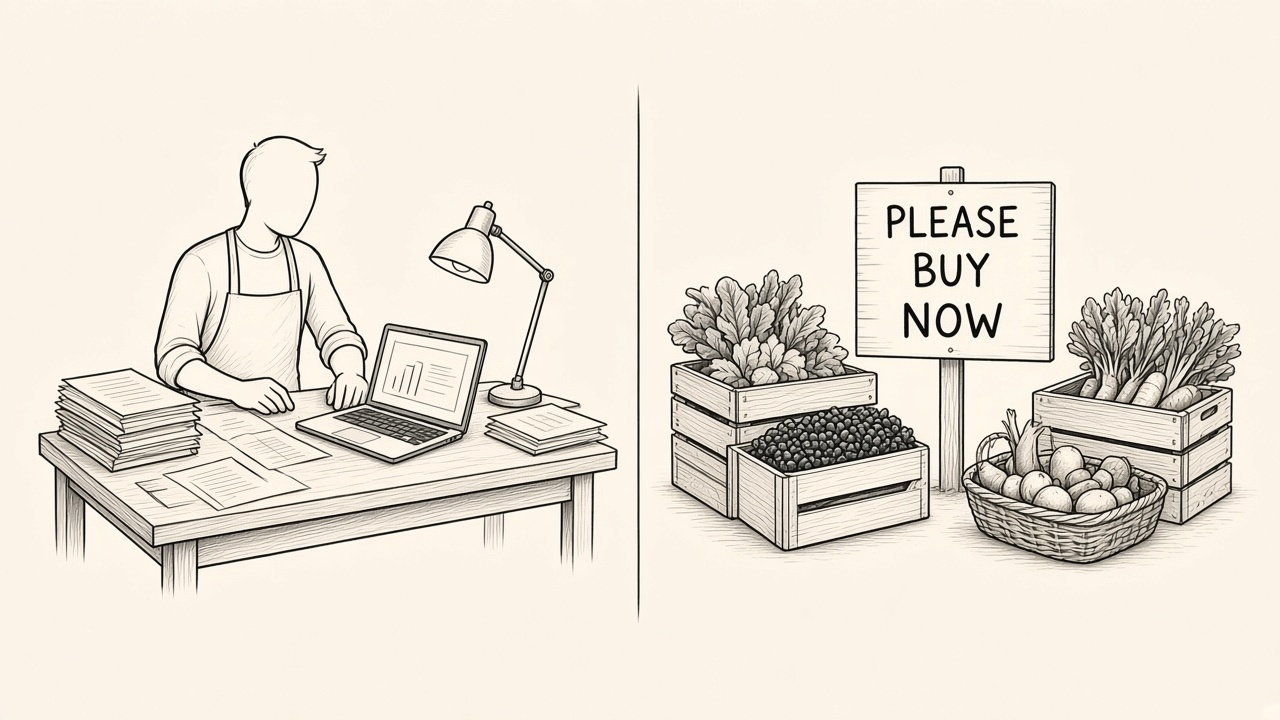
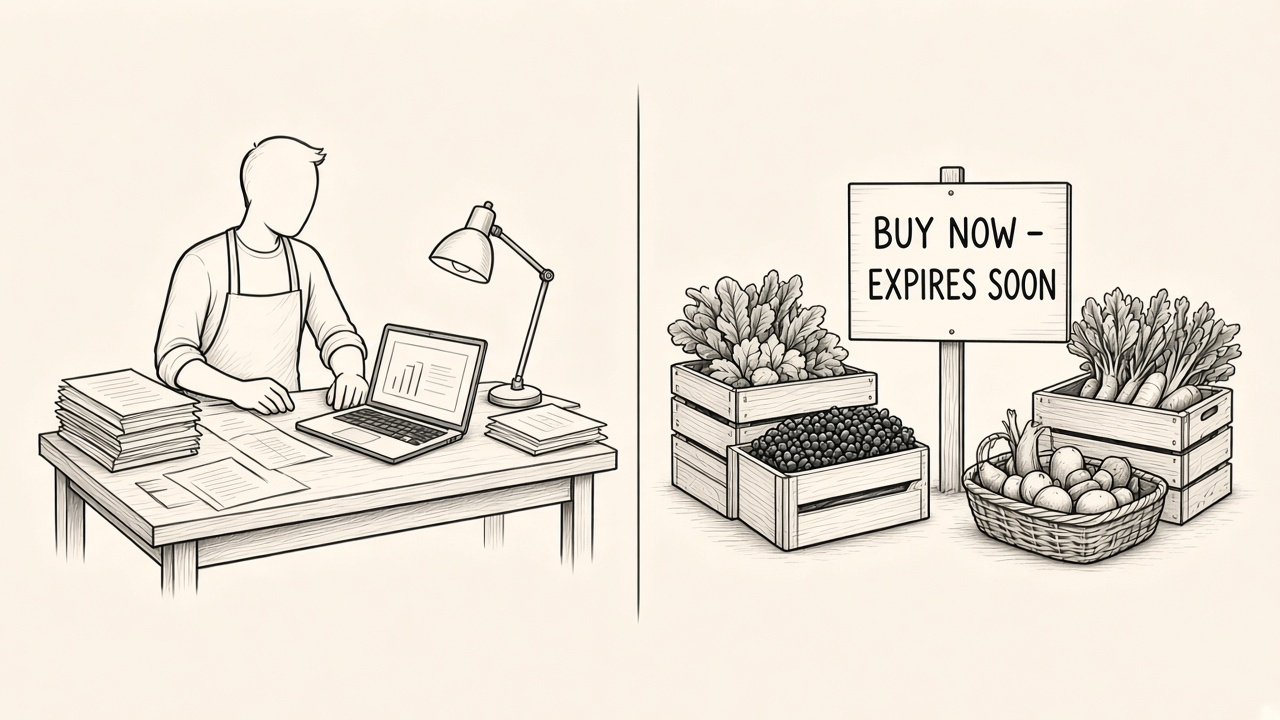
Change the Growth Cap sign to Buy now - expires soon.

diff --git a/index.html b/index.html
@@ -102,7 +102,7 @@
           <p><span class="point">The logic of seasonality and volume.</span> Harvests and raw material supply arrive in bursts dictated by weather and season, whereas the market expects a steady supply. Producers are both able and willing to grow and produce more, but they find too few buyers ready to take on large volumes at the exact moment of harvest. Without the capacity to easily handle, process, and store surpluses, a hard cap is placed on their potential production volumes and revenue.</p>
         </div>
         <figure>
-          <img src="images/core-problem.jpg" alt="A farmer at a table with paperwork and a laptop, beside an unsold harvest and a sign that says Please buy now.">
+          <img src="images/core-problem.jpg" alt="A farmer at a table with paperwork and a laptop, beside an unsold harvest and a sign that says Buy now - expires soon.">
         </figure>
       </section>
 
